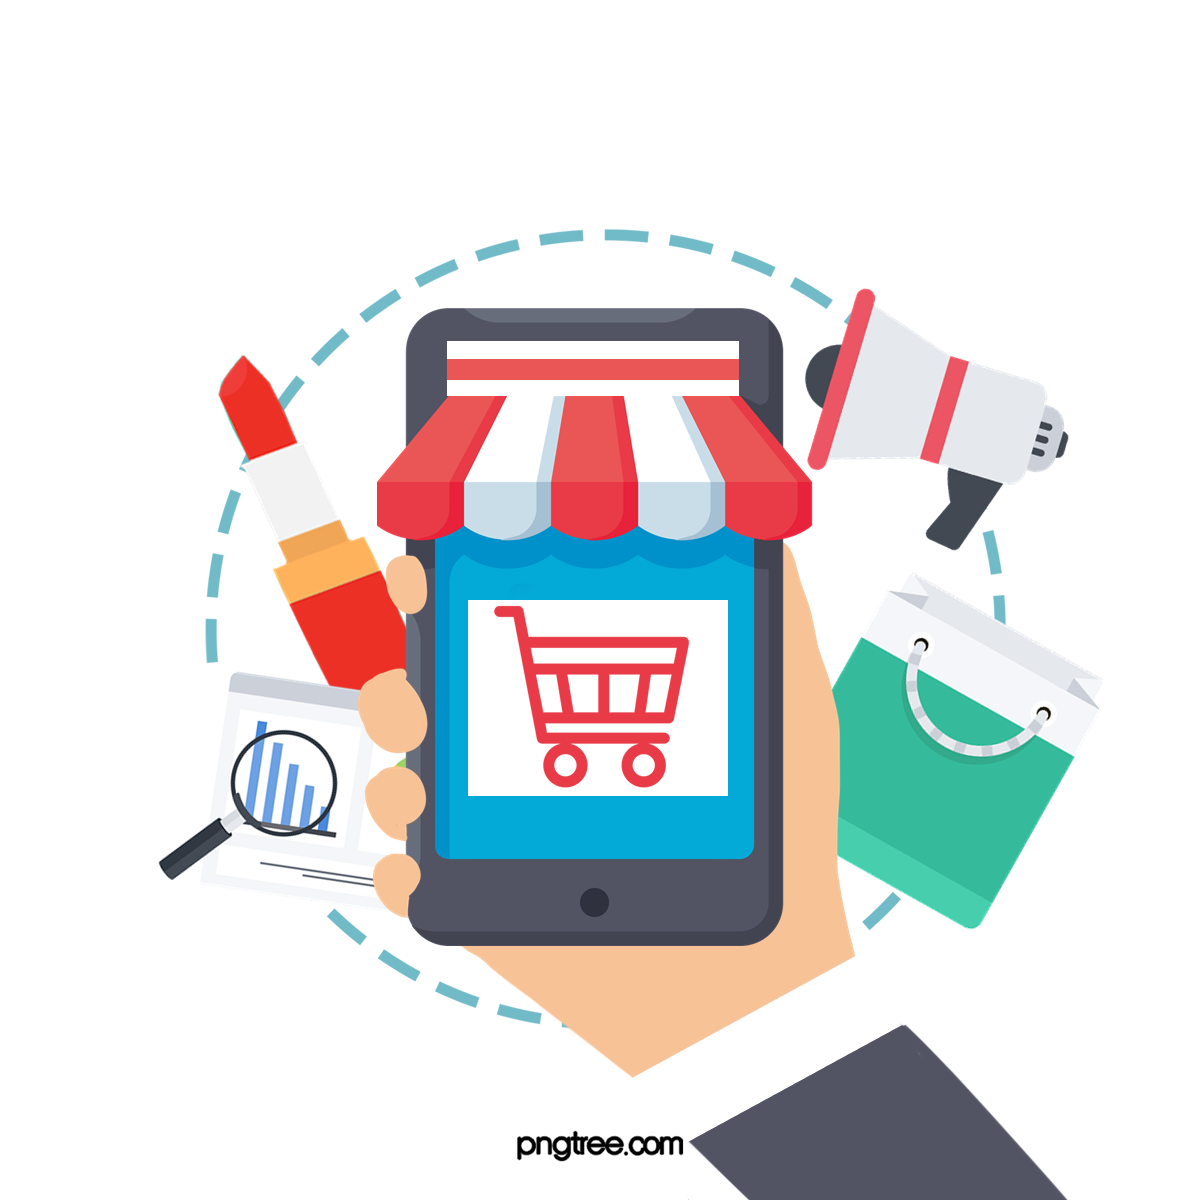
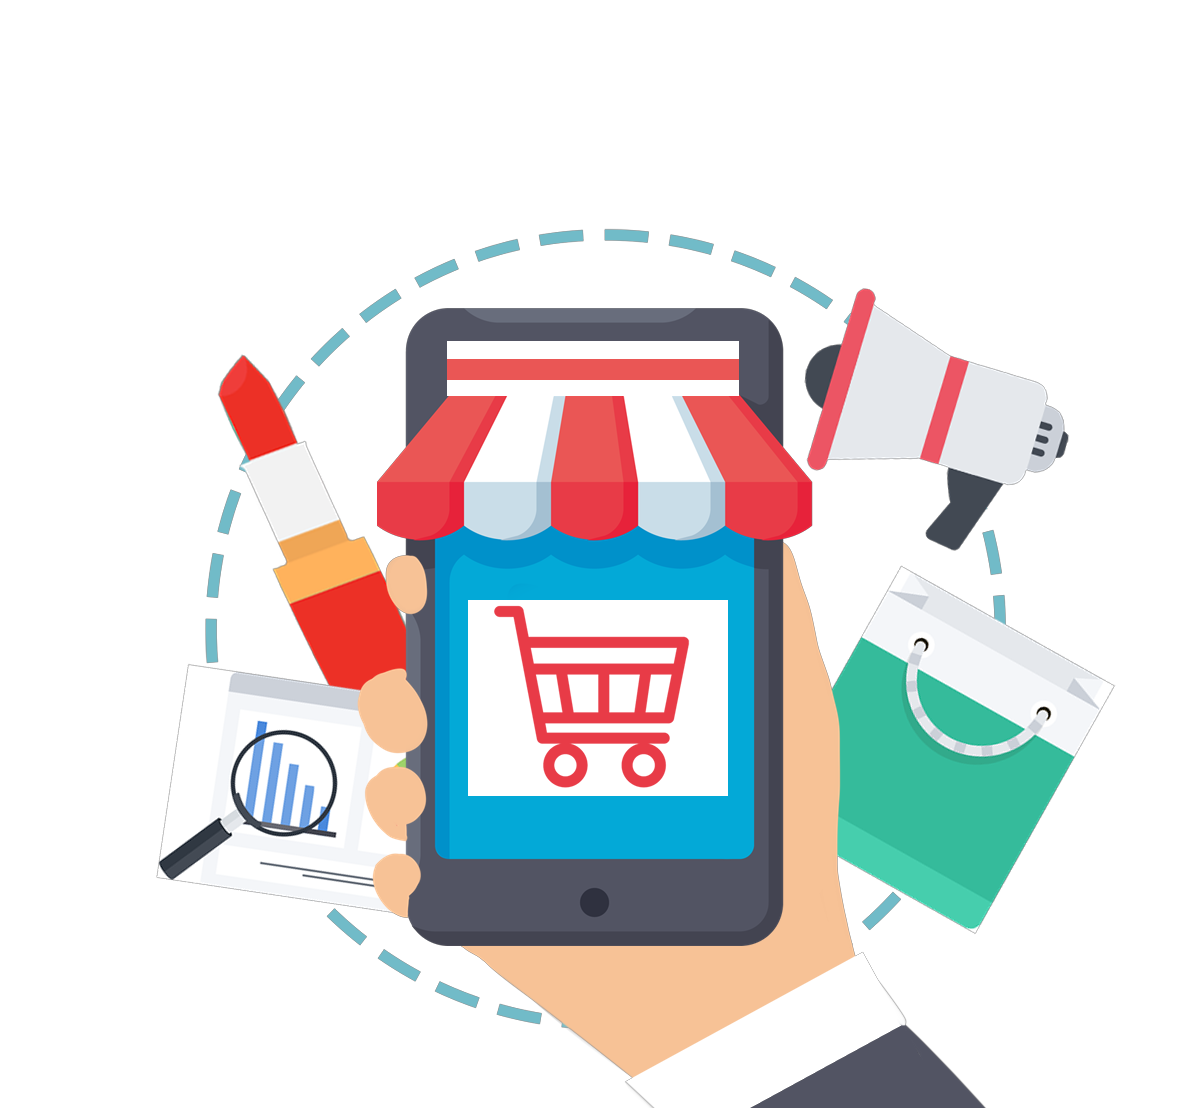
feat(login): improve responsive layout and hero image

Changed region(s): [[0.1233, 0.1841, 0.925, 1.0]]

diff --git a/frontend/src/app/login/page.tsx b/frontend/src/app/login/page.tsx
@@ -7,14 +7,7 @@ import Image from "next/image";
 import { Button, Input, useToast } from "@/components/ui";
 import { useAuth } from "@/hooks/useAuth";
 import { LoginRequest, ApiError } from "@/types";
-import {
-  FaUser,
-  FaLock,
-  FaShoppingBag,
-  FaEnvelope,
-  FaEye,
-  FaEyeSlash,
-} from "react-icons/fa";
+import { FaLock, FaEnvelope, FaEye, FaEyeSlash } from "react-icons/fa";
 import { HiArrowRight } from "react-icons/hi";
 import { FcGoogle } from "react-icons/fc";
 
@@ -82,149 +75,146 @@ const LoginPage: React.FC = () => {
   };
 
   return (
-    <div className="min-h-screen flex items-center justify-center bg-gray-900 py-12 px-4 sm:px-6 lg:px-8">
-      <div className="max-w-6xl w-full">
-        <div className="flex justify-center">
-          {/* Login Form */}
-          <div className="w-full max-w-4xl">
-            {/* Login Card - Dark Theme */}
-            <div className="bg-gray-800 rounded-2xl shadow-xl border border-gray-700 overflow-hidden">
-              <div className="grid grid-cols-1 lg:grid-cols-2">
-                {/* Left Side - Image inside form */}
-                <div className="hidden lg:block relative min-h-[500px]">
-                  <Image
-                    src="/assets/images/Sign_in.png"
-                    alt="ShopVerse Đăng nhập"
-                    fill
-                    className="object-cover"
-                    priority
+    <div className="min-h-screen bg-gray-900 py-10 px-4 sm:px-6 lg:px-8 flex items-center">
+      <div className="w-full max-w-5xl mx-auto">
+        <div className="bg-gray-800 rounded-2xl shadow-xl border border-gray-700 overflow-hidden">
+          <div className="grid grid-cols-1 lg:grid-cols-2">
+            {/* Left Side - Image */}
+            <div className="relative h-56 w-full lg:h-auto lg:min-h-[520px]">
+              <Image
+                src="/assets/images/Sign_in.png"
+                alt="ShopVerse Đăng nhập"
+                fill
+                className="object-cover"
+                priority
+              />
+            </div>
+
+            {/* Right Side - Login Form */}
+            <div className="p-6 sm:p-8 space-y-8 flex flex-col justify-center">
+              {/* Header with Icon and Title */}
+              <div className="flex items-center gap-3">
+                <div className="w-10 h-10 bg-blue-600 rounded-lg flex items-center justify-center">
+                  <HiArrowRight className="text-white text-xl" />
+                </div>
+                <div>
+                  <h2 className="text-2xl font-bold text-blue-600">
+                    Đăng nhập
+                  </h2>
+                  <p className="text-gray-400 text-sm">
+                    Truy cập hệ thống quản trị ShopVerse
+                  </p>
+                </div>
+              </div>
+
+              <form className="space-y-5" onSubmit={handleSubmit}>
+                {/* Email Input */}
+                <div>
+                  <Input
+                    label=""
+                    type="email"
+                    name="usernameOrEmail"
+                    value={formData.usernameOrEmail}
+                    onChange={handleChange}
+                    error={errors.usernameOrEmail}
+                    required
+                    leftIcon={<FaEnvelope className="w-5 h-5 text-white" />}
+                    className="bg-gray-700 border-gray-600 text-white placeholder-gray-400 focus:border-blue-500 focus:ring-blue-500"
+                    autoComplete="email"
+                    placeholder="Email"
                   />
                 </div>
 
-                {/* Right Side - Login Form */}
-                <div className="p-8 space-y-6 flex flex-col justify-center">
-                  {/* Header with Icon and Title */}
-                  <div className="flex items-center gap-3 mb-6">
-                    <div className="w-10 h-10 bg-blue-600 rounded-lg flex items-center justify-center">
-                      <HiArrowRight className="text-white text-xl" />
-                    </div>
-                    <h2 className="text-2xl font-bold text-blue-600">
-                      Đăng nhập
-                    </h2>
-                  </div>
-
-                  <form className="space-y-5" onSubmit={handleSubmit}>
-                    {/* Email Input */}
-                    <div>
-                      <Input
-                        label=""
-                        type="email"
-                        name="usernameOrEmail"
-                        value={formData.usernameOrEmail}
-                        onChange={handleChange}
-                        error={errors.usernameOrEmail}
-                        required
-                        leftIcon={<FaEnvelope className="w-5 h-5 text-white" />}
-                        className="bg-gray-700 border-gray-600 text-white placeholder-gray-400 focus:border-blue-500 focus:ring-blue-500"
-                        autoComplete="email"
-                        placeholder="Email"
-                      />
-                    </div>
-
-                    {/* Password Input */}
-                    <div>
-                      <Input
-                        label=""
-                        type={showPassword ? "text" : "password"}
-                        name="password"
-                        value={formData.password}
-                        onChange={handleChange}
-                        error={errors.password}
-                        required
-                        leftIcon={<FaLock className="w-5 h-5 text-white" />}
-                        rightIcon={
-                          <button
-                            type="button"
-                            onClick={(e) => {
-                              e.preventDefault();
-                              setShowPassword(!showPassword);
-                            }}
-                            className="text-gray-400 hover:text-white transition-colors focus:outline-none"
-                            aria-label={
-                              showPassword ? "Hide password" : "Show password"
-                            }
-                          >
-                            {showPassword ? (
-                              <FaEyeSlash className="w-5 h-5" />
-                            ) : (
-                              <FaEye className="w-5 h-5" />
-                            )}
-                          </button>
+                {/* Password Input */}
+                <div>
+                  <Input
+                    label=""
+                    type={showPassword ? "text" : "password"}
+                    name="password"
+                    value={formData.password}
+                    onChange={handleChange}
+                    error={errors.password}
+                    required
+                    leftIcon={<FaLock className="w-5 h-5 text-white" />}
+                    rightIcon={
+                      <button
+                        type="button"
+                        onClick={(e) => {
+                          e.preventDefault();
+                          setShowPassword(!showPassword);
+                        }}
+                        className="text-gray-400 hover:text-white transition-colors focus:outline-none"
+                        aria-label={
+                          showPassword ? "Hide password" : "Show password"
                         }
-                        className="bg-gray-700 border-gray-600 text-white placeholder-gray-400 focus:border-blue-500 focus:ring-blue-500"
-                        autoComplete="current-password"
-                        placeholder="Mật khẩu"
-                      />
-                    </div>
-
-                    {/* Forgot Password */}
-                    <div className="text-left">
-                      <Link
-                        href="/forgot-password"
-                        className="text-sm text-gray-400 hover:text-gray-300 transition-colors"
                       >
-                        Quên mật khẩu?
-                      </Link>
-                    </div>
-
-                    {/* Login Button */}
-                    <div>
-                      <Button
-                        type="submit"
-                        variant="primary"
-                        fullWidth
-                        size="lg"
-                        isLoading={isLoading}
-                        className="bg-blue-600 hover:bg-blue-700 text-white rounded-lg font-medium"
-                      >
-                        {!isLoading && <span>Đăng nhập</span>}
-                      </Button>
-                    </div>
-                  </form>
-
-                  {/* Divider */}
-                  <div className="relative my-6">
-                    <div className="absolute inset-0 flex items-center">
-                      <div className="w-full border-t border-gray-600"></div>
-                    </div>
-                    <div className="relative flex justify-center text-sm">
-                      <span className="px-2 bg-gray-800 text-gray-400">
-                        hoặc
-                      </span>
-                    </div>
-                  </div>
-
-                  {/* Google Login Button */}
-                  <div>
-                    <button
-                      type="button"
-                      className="w-full flex items-center justify-center gap-3 bg-gray-700 border border-gray-600 text-gray-300 hover:bg-gray-600 hover:text-white rounded-lg px-4 py-3 font-medium transition-all duration-200"
-                    >
-                      <FcGoogle className="w-5 h-5" />
-                      <span>Đăng nhập bằng Google</span>
-                    </button>
-                  </div>
-
-                  {/* Register Link */}
-                  <div className="text-center">
-                    <p className="text-sm text-gray-400">
-                      Chưa có tài khoản?{" "}
-                      <span className="text-blue-600 font-medium">
-                        Liên hệ quản trị viên
-                      </span>
-                    </p>
-                  </div>
+                        {showPassword ? (
+                          <FaEyeSlash className="w-5 h-5" />
+                        ) : (
+                          <FaEye className="w-5 h-5" />
+                        )}
+                      </button>
+                    }
+                    className="bg-gray-700 border-gray-600 text-white placeholder-gray-400 focus:border-blue-500 focus:ring-blue-500"
+                    autoComplete="current-password"
+                    placeholder="Mật khẩu"
+                  />
                 </div>
+
+                {/* Forgot Password */}
+                <div className="text-left">
+                  <Link
+                    href="/forgot-password"
+                    className="text-sm text-gray-400 hover:text-gray-300 transition-colors"
+                  >
+                    Quên mật khẩu?
+                  </Link>
+                </div>
+
+                {/* Login Button */}
+                <div>
+                  <Button
+                    type="submit"
+                    variant="primary"
+                    fullWidth
+                    size="lg"
+                    isLoading={isLoading}
+                    className="bg-blue-600 hover:bg-blue-700 text-white rounded-lg font-medium"
+                  >
+                    {!isLoading && <span>Đăng nhập</span>}
+                  </Button>
+                </div>
+              </form>
+
+              {/* Divider */}
+              <div className="relative">
+                <div className="absolute inset-0 flex items-center">
+                  <div className="w-full border-t border-gray-600"></div>
+                </div>
+                <div className="relative flex justify-center text-sm">
+                  <span className="px-2 bg-gray-800 text-gray-400">hoặc</span>
+                </div>
+              </div>
+
+              {/* Google Login Button */}
+              <div>
+                <button
+                  type="button"
+                  className="w-full flex items-center justify-center gap-3 bg-gray-700 border border-gray-600 text-gray-300 hover:bg-gray-600 hover:text-white rounded-lg px-4 py-3 font-medium transition-all duration-200"
+                >
+                  <FcGoogle className="w-5 h-5" />
+                  <span>Đăng nhập bằng Google</span>
+                </button>
+              </div>
+
+              {/* Register Link */}
+              <div className="text-center">
+                <p className="text-sm text-gray-400">
+                  Chưa có tài khoản?{" "}
+                  <span className="text-blue-600 font-medium">
+                    Liên hệ quản trị viên
+                  </span>
+                </p>
               </div>
             </div>
           </div>
